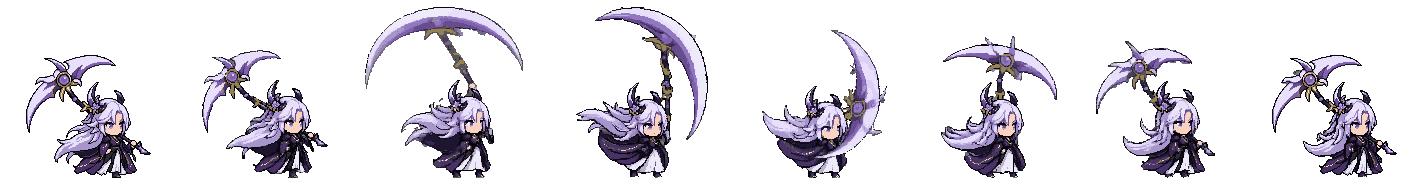
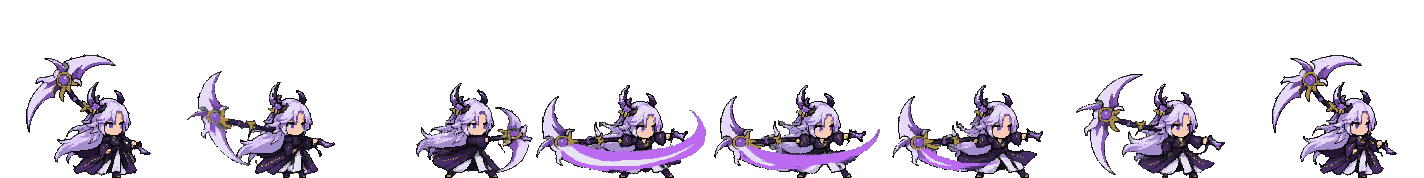
Liềm: chuỗi 3 nhát vung về trước, chém xa, 2 chiêu bắn liềm, nữ cao bằng nam (#220)
* Thay nhân vật nữ bằng cô liềm tím, thêm vũ khí Liềm

- hero.nu: cô liềm tím tóc oải hương dựng bằng SpriteCook theo nét pixel cũ,
  6 động tác x 8 khung (đứng, đi, chém vòng, quét ngang, bổ dọc, hất lên),
  thay hình nữ quầng đỏ cũ (tránh giống nhân vật game khác); xoá dải nguồn cũ.
- heroes.py: fit() gộp khung khác cỡ về chung đáy, bỏ trim_above không còn dùng.
- Vũ khí mới "liem" + món Tử Nguyệt Liềm + chiêu Tử Nguyệt Liềm (ném lưỡi liềm
  xoay, xuyên, làm chậm); biểu tượng túi, nút chiêu, đạn vẽ bằng code.

Claude-Session: https://claude.ai/code/session_01BVnJmrZJyUXuAed3rQziFZ

* Liềm: đòn chém vung về phía trước, chém xa hơn, thêm 2 chiêu bắn liềm, ảnh liềm trang bị

- hero.nu: làm lại 4 đòn đánh vung về trước (chém chéo kéo lên, quét ngang thu
  về, móc liềm sát đất, bổ xuống trước mặt); lunge cho người nhún tới khi đánh.
- Vũ khí Liềm: tầm 30 → 44, vệt chém tím fx.liem vươn theo tầm cả khi nhân vật
  bằng hình (weapons.*.slash).
- Chiêu thêm theo vũ khí (weapons.*.more): Song Nguyệt Trảm (3 lưỡi liềm hình
  quạt, mở tầng 4), Tử Nguyệt Luân Hồi (10 lưỡi tứ phía, mở tầng 18).
- Biểu tượng Tử Nguyệt Liềm trong túi đồ: hình SpriteCook theo liềm mẫu.

Claude-Session: https://claude.ai/code/session_01BVnJmrZJyUXuAed3rQziFZ

* Nhân vật nữ cao bằng nhân vật nam

Thu hình nữ 0.6 (heroes.shrink, giữ bảng màu gốc) để điểm ảnh và thân người
bằng nam; height 49 cùng tỉ lệ đơn vị/điểm ảnh với nam (30/64) nên hai nhân
[…]

diff --git a/src/render/draw-hero.js b/src/render/draw-hero.js
@@ -16,7 +16,7 @@ function anim(game, p, look, t) {
   p.heroSw = p.swingT;
   if (p.heroAtk0 != null) {
     const name = look.attacks[p.heroAtkN % look.attacks.length], i = Math.floor((t - p.heroAtk0) * look.fps[name]);
-    if (i >= 0 && i < look.anims[name].length) return [name, i];
+    if (i >= 0 && i < look.anims[name].length) return [name, i, i / look.anims[name].length];
     p.heroAtk0 = null;
   }
   const name = p.moving && !p.meditating && !p.riding ? 'walk' : 'idle';   // cưỡi thú: đứng yên trên lưng thú, không bước chân
@@ -28,7 +28,7 @@ export function drawHero(ctx, game, p, t, flash) {
   const look = heroLook(game), spr = look.sprite && game.data.art.sprites[look.sprite];
   const im = spr && spriteImage(spr);
   if (!im) return false;
-  const [name, i] = anim(game, p, look, t), list = look.anims[name] || look.anims.idle;
+  const [name, i, atk] = anim(game, p, look, t), list = look.anims[name] || look.anims.idle;
   const f = list[i % list.length];
   if (Math.abs(p.face.x) > 0.2) p.lookX = Math.sign(p.face.x);   // chỉ hai hướng: giữ hướng cũ khi đi thẳng lên xuống
   ctx.fillStyle = 'rgba(27,24,48,0.25)';   // bóng dưới chân
@@ -38,7 +38,8 @@ export function drawHero(ctx, game, p, t, flash) {
   const m = ctx.getTransform(), want = look.height / spr.h * m.d;
   const n = want >= 0.75 ? Math.max(1, Math.round(want)) : want;
   ctx.save();
-  ctx.setTransform(n * (p.lookX || 1), 0, 0, n, Math.round(m.a * p.x + m.e), Math.round(m.d * p.y + m.f));
+  const dx = atk != null && look.lunge ? (p.lookX || 1) * look.lunge * Math.sin(Math.PI * atk) : 0;   // đòn đánh: nhún người tới trước rồi lùi về
+  ctx.setTransform(n * (p.lookX || 1), 0, 0, n, Math.round(m.a * (p.x + dx) + m.e), Math.round(m.d * p.y + m.f));
   ctx.imageSmoothingEnabled = n < 0.75;
   drawHitFrame(ctx, spr, im, f, flash ? Math.min(1, p.flash / 0.12) : 0);
   ctx.restore();

diff --git a/src/game/skills.js b/src/game/skills.js
@@ -95,16 +95,18 @@ function segDist(pt, x1, y1, x2, y2) {
   return dist(pt, { x: x1 + dx * t, y: y1 + dy * t });
 }
 
+// Chiêu vũ khí: chiêu chính + chiêu thêm (weapons.*.more: [id, tổng tầng mở])
+export function weaponSkills(w) {
+  return [...(w.skill ? [[w.skill, 0]] : []), ...(w.more || [])];
+}
+
 // Chiêu đã mở: chiêu vũ khí + các chiêu hệ đủ tầng tu luyện (elements._unlock)
 export function unlockedSkills(game) {
   const { save, data } = game, out = [];
-  const w = data.weapons[weaponId(save, data)];
-  if (w.skill) out.push(w.skill);
+  const w = data.weapons[weaponId(save, data)], n = totalLayer(save, data.realms);
+  for (const [id, at] of weaponSkills(w)) if (n >= at) out.push(id);
   const el = save.element ? data.elements[save.element] : null;
-  if (el) {
-    const n = totalLayer(save, data.realms);
-    el.skills.forEach((id, i) => { if (n >= data.elements._unlock[i]) out.push(id); });
-  }
+  if (el) el.skills.forEach((id, i) => { if (n >= data.elements._unlock[i]) out.push(id); });
   return out;
 }
 
@@ -113,7 +115,7 @@ export function skillSlots(game) {
   const open = unlockedSkills(game), lo = game.save.loadout;
   if (lo) {
     // Đổi loại vũ khí: ô đang mang chiêu vũ khí cũ tự thay bằng chiêu của vũ khí mới
-    const wSkills = Object.values(game.data.weapons).map(w => w.skill).filter(Boolean);
+    const wSkills = Object.values(game.data.weapons).flatMap(w => weaponSkills(w).map(([id]) => id));
     const cur = game.data.weapons[weaponId(game.save, game.data)].skill;
     return lo.map(id => (open.includes(id) ? id : wSkills.includes(id) && cur && !lo.includes(cur) ? cur : null));
   }

diff --git a/src/ui/skills-panel.js b/src/ui/skills-panel.js
@@ -1,5 +1,5 @@
 // Bảng Chiêu: tab Chiêu (3 ô chiêu đang mang, chiêu đã mở và chưa mở) và tab Công pháp (3 cuốn đang mang, cấp, kinh nghiệm).
-import { unlockedSkills, skillSlots, setSlot } from '../game/skills.js';
+import { unlockedSkills, skillSlots, setSlot, weaponSkills } from '../game/skills.js';
 import { weaponId } from '../game/stats.js';
 import { setTechSlot, techNeed } from '../game/techniques.js';
 import { statText } from '../game/items.js';
@@ -74,7 +74,7 @@ export function createSkillsPanel(game) {
     const list = $('skills-list'); list.innerHTML = '';
     const all = [];
     const w = data.weapons[weaponId(game.save, data)];
-    if (w.skill) all.push({ id: w.skill, from: w.name });
+    for (const [id, at] of weaponSkills(w)) all.push({ id, from: w.name, at });
     const e = game.save.element ? data.elements[game.save.element] : null;
     if (e) e.skills.forEach((id, i) => all.push({ id, from: `Hệ ${e.name}`, at: data.elements._unlock[i] }));
     for (const { id, from, at } of all) {

diff --git a/src/game/skill-fx.js b/src/game/skill-fx.js
@@ -14,8 +14,8 @@ export function burstFx(game, kind, x, y, r, ang = 0) {
   } else if (kind === 'bolt') {
     addFx(game, { type: 'sprite', id: 'fx.bolt', x, y, s: Math.max(0.6, r / 30), life: 0.5 });
     game.flashT = Math.max(game.flashT || 0, 0.06);
-  } else if (kind === 'slash' || kind === 'liem') {   // liềm trúng: vệt chém như kiếm khí
-    addFx(game, { type: 'sprite', id: 'fx.slash', x, y: y - 3, s: Math.max(0.5, r / 19), rot: ang, life: 0.25 });
+  } else if (kind === 'slash' || kind === 'liem') {   // liềm trúng: vệt chém tím
+    addFx(game, { type: 'sprite', id: kind === 'liem' ? 'fx.liem' : 'fx.slash', x, y: y - 3, s: Math.max(0.5, r / 19), rot: ang, life: 0.25 });
   } else if (kind === 'vine') {
     addFx(game, { type: 'sprite', id: 'fx.vine', x, y: y + 2, s: Math.max(0.4, r / 22), life: 0.75 });
   } else if (kind === 'rock') {   // vùng rộng: gai đá trồi thành vòng, không che người đứng giữa

diff --git a/src/game/player.js b/src/game/player.js
@@ -83,8 +83,8 @@ function swing(game) {
   }
   const ang = Math.atan2(p.face.y, p.face.x), half = w.arc / 2 * Math.PI / 180;
   const H = game.data.heroes, look = H.list[game.save.look] || H.list[H.default];
-  // Nhân vật bằng hình đã có vệt chém vẽ sẵn trong khung đánh (quét từ dưới lên qua đầu): không chồng thêm vệt khác
-  if (!look.sprite) addFx(game, { type: 'sprite', id: 'fx.slash', x: p.x, y: p.y - 3, s: w.range / 19, rot: ang, life: 0.24 });
+  // Nhân vật bằng hình đã có vệt chém vẽ sẵn trong khung đánh: không chồng thêm vệt, trừ vũ khí có vệt riêng (w.slash, vd. liềm vươn xa)
+  if (!look.sprite || w.slash) addFx(game, { type: 'sprite', id: w.slash || 'fx.slash', x: p.x, y: p.y - 3, s: w.range / 19, rot: ang, life: 0.24 });
   for (const m of game.mobs) {
     if (m.dead) continue;
     const d = dist(p, m);

diff --git a/tools/art/build.py b/tools/art/build.py
@@ -8,13 +8,13 @@ import numpy as np
 sys.path.insert(0, str(Path(__file__).parent))
 from px import Canvas, hx, save, write_manifest, blob_mask, BAYER4, clean  # noqa: E402
 from chars import CHARS, draw  # noqa: E402
-from fx import slash_frames, spark_frames, puff_frames  # noqa: E402
+from fx import slash_frames, spark_frames, puff_frames, MOON  # noqa: E402
 from fx_skill import fire_frames, ice_frames, bolt_frames  # noqa: E402
 from fx_nature import vine_frames, rock_frames, wind_frames  # noqa: E402
 from fx_aura import heal_frames, shield_frames, buff_frames  # noqa: E402
 from fx_proj import proj_sprites  # noqa: E402
 from icons import icon_sprites  # noqa: E402
-from heroes import sheet, foot, fit  # noqa: E402
+from heroes import sheet, foot, fit, shrink, picture  # noqa: E402
 import world as W  # noqa: E402
 import dungeon as DG  # noqa: E402
 from ground import ground_frames  # noqa: E402
@@ -34,8 +34,8 @@ for sid, spec in CHARS.items():
 _SMOKE = [(0x7f, 0x80, 0x80), (0x7e, 0x80, 0x80)]   # khói xám SpriteCook lẫn vào quầng
 _f = sheet('nam-dung') + sheet('nam-di', drop=_SMOKE) + sheet('nam-chem') + sheet('nam-bo', drop=_SMOKE) + sheet('nam-hat', drop=_SMOKE) + sheet('nam-ngang')
 save('hero.nam', _f, foot(_f[0]), 'nam kiếm tu (SpriteCook): đứng, đi, chém vòng, bổ dọc, hất lên, quét ngang; mỗi động tác 8 khung')
-_f = fit(sheet('liem-dung') + sheet('liem-di') + sheet('liem-chem') + sheet('liem-ngang') + sheet('liem-bo') + sheet('liem-hat'))
-save('hero.nu', _f, foot(_f[0]), 'nữ liềm tím tóc oải hương (SpriteCook): đứng, đi, chém vòng, quét ngang, bổ dọc, hất lên; mỗi động tác 8 khung')
+_f = shrink(fit(sheet('liem-dung') + sheet('liem-di') + sheet('liem-cheo') + sheet('liem-ngang') + sheet('liem-moc')), 0.6)   # thân ~46 px như nam
+save('hero.nu', _f, foot(_f[0]), 'nữ liềm tím tóc oải hương (SpriteCook): đứng, đi, chém chéo kéo lên, quét ngang thu về, móc liềm sát đất; mỗi động tác 8 khung, mọi đòn vung về phía trước')
 
 # ---------------------------------------------------------------- nền đảo 16×16 (tools/art/world.py, vẽ ở src/world/draw-ground.js)
 save('tile.grass', [W.grass(s) for s in range(4)], (0, 0), 'cỏ, 4 biến thể ghép liền')
@@ -157,6 +157,7 @@ save('item.kiem', [sword()], (2, 10), 'kiếm bay cạnh nhân vật, chĩa lên
 
 # ---------------------------------------------------------------- hiệu ứng nhỏ (pixel + quầng sáng, docs/02)
 save('fx.slash', slash_frames(), (18, 24), 'vệt chém đánh thường, 7 khung; tâm cung tại neo')
+save('fx.liem', slash_frames(MOON), (18, 24), 'vệt liềm tím vươn xa trước mặt (vũ khí Liềm, chiêu liềm trúng), 7 khung; tâm cung tại neo')
 save('fx.spark', spark_frames(), (5, 5), 'tia lửa khi trúng, 4 khung')
 save('fx.puff', puff_frames(), (8, 8), 'khói tan khi quái chết, 5 khung')
 save('fx.fire', fire_frames(), (12, 31), 'ngọn lửa lặp 8 khung (chiêu hệ hỏa); neo ở chân lửa')
@@ -180,6 +181,8 @@ for _id, _c in icon_sprites().items():
 _items, _gear = (json.loads((Path(__file__).resolve().parents[2] / 'data' / f).read_text(encoding='utf-8')) for f in ('items.json', 'gear.json'))
 for _id, _b in _items['bases'].items():
     save('gear.' + _id, [gear_icon(_b, _gear['sets'])], (8, 8), _b['name'])
+# món có hình vẽ sẵn (SpriteCook theo mẫu chủ dự án) thay biểu tượng vẽ code; túi đồ hiện mọi biểu tượng ở ô 32 px
+save('gear.tu-nguyet-liem', [picture('liem-vu-khi', 64, hx('#1b1830'))], (32, 32), 'Tử Nguyệt Liềm (SpriteCook theo liềm mẫu)')
 
 # ---------------------------------------------------------------- chữ số pixel 3×5 (+viền) cho số sát thương
 DIG = ['111101101101111', '010110010010111', '111001111100111', '111001111001111', '101101111001001',

diff --git a/tools/art/heroes.py b/tools/art/heroes.py
@@ -140,3 +140,39 @@ def fit(frames):
         cv.a[:] = big[k, ys[0]:y1, xs[0]:xs[-1] + 1]
         out.append(cv)
     return out
+
+
+def picture(name, size, ink):
+    """Hình món đồ vẽ sẵn (tools/art/nguon/<name>.png, nền trong suốt) → Canvas size×size: cắt sát, đặt giữa ô vuông,
+    thu nhỏ rồi đưa mỗi điểm về màu gần nhất của bảng màu gốc, alpha chỉ 0/255, viền mực ink 1 px như hình vẽ code."""
+    im = Image.open(SRC / f'{name}.png').convert('RGBA')
+    im = im.crop(im.getbbox())
+    s = max(im.size)
+    sq = Image.new('RGBA', (s, s))
+    sq.paste(im, ((s - im.width) // 2, (s - im.height) // 2))
+    src = np.array(sq)
+    pal = np.unique(src[src[..., 3] > 127][:, :3], axis=0).astype(int)
+    small = np.array(sq.resize((size - 2, size - 2), Image.BOX)).astype(int)
+    cv = Canvas(size, size)
+    solid = small[..., 3] > 110
+    for y, x in zip(*np.where(solid)):
+        cv.a[y + 1, x + 1, :3] = pal[np.abs(pal - small[y, x, :3]).sum(axis=1).argmin()]   # Pillow đã khử nhân alpha khi thu
+        cv.a[y + 1, x + 1, 3] = 255
+    return cv.outline(ink)
+
+
+def shrink(frames, k):
+    """Thu mọi khung theo hệ số k (<1), đưa mỗi điểm về màu gần nhất trong bảng màu gốc, alpha 0/255. Dùng để điểm ảnh
+    và thân người to bằng nhân vật nam (thân ~46 px): hai nhân vật làm tròn điểm màn hình giống nhau, cao thấp cân nhau."""
+    pal = np.unique(np.concatenate([cv.a[cv.a[..., 3] > 0][:, :3] for cv in frames]), axis=0).astype(int)
+    w, h = round(frames[0].w * k), round(frames[0].h * k)
+    out = []
+    for cv in frames:
+        im = Image.fromarray(cv.a, 'RGBA').resize((w, h), Image.BOX)
+        a = np.array(im).astype(int)
+        sm = Canvas(w, h)
+        for y, x in zip(*np.where(a[..., 3] > 110)):
+            sm.a[y, x, :3] = pal[np.abs(pal - a[y, x, :3]).sum(axis=1).argmin()]   # Pillow đã khử nhân alpha khi thu
+            sm.a[y, x, 3] = 255
+        out.append(sm)
+    return out

diff --git a/tools/art/fx.py b/tools/art/fx.py
@@ -48,10 +48,13 @@ def spark0():
 KEYS = [(-100, -55, 4, 0.0), (-100, 25, 7, 0.0), (-85, 90, 9, 0.0), (-20, 100, 7, 0.3), (30, 105, 5, 0.55), (70, 110, 3, 0.8)]
 
 
-def slash_frames():
+MOON = [hx('#6a4a9a'), hx('#a88ad8'), hx('#dccbf6'), hx('#ffffff')]  # vệt liềm tím (vũ khí Liềm)
+
+
+def slash_frames(tones=TONES):
     out = [spark0()]
     for a0, a1, wmax, dis in KEYS:
-        t = TONES if dis < 0.5 else [TONES[0], TONES[0], TONES[1], TONES[2]]
+        t = tones if dis < 0.5 else [tones[0], tones[0], tones[1], tones[2]]
         out.append(slash(a0, a1, wmax, t, dis))
     return out
 

diff --git a/docs/02-CHUAN-PIXEL.md b/docs/02-CHUAN-PIXEL.md
@@ -11,7 +11,7 @@ Bản chơi tạm hiện vẽ hình khối đơn giản. Khi sang bước 3, hì
 - Quái đã có hình (27/10/2026): mỗi quái trong `data/mobs.json` có `look` (dáng: slime, imp, mage, wolf, wing, plant, beetle, golem, snake, lord) và `crown` (vua quái) thì `tools/art/mobs.py` vẽ riêng một tấm `mob.<id>` theo màu và cỡ của nó, 2 khung, nhìn phải. Game vẽ ở `src/render/draw-mob-sprite.js`. Thêm dáng ở `tools/art/mobs_extra.py` (27/10/2026): person (ma vệ), shade (tâm ma, hư ảnh), blade (kiếm hồn), snowman (người tuyết), pumpkin (bí ngô). Chỉ đấu sĩ luận võ còn vẽ hình khối, vì mỗi đối thủ có màu áo, tóc, đai riêng.
 - Linh thú và thú cưỡi (27/10/2026): `tools/art/pets.py` vẽ `pet.<id>` theo dáng của quái cùng tên và màu linh thú (game vẽ cỡ 0,7), `mount.<id>` là thân sói lớn có thêm đặc điểm theo `look` trong `data/pets.json` mounts (deer gạc hươu, wolf bờm, qilin sừng và đuôi lửa, lynx chỏm lông tai), có yên. Vẽ ở `src/render/draw-pet.js`, người cưỡi ngồi cao 11 đơn vị.
 - Nền đảo đã dùng trong game (27/10/2026): `tools/art/world.py` vẽ cỏ, đường đất, nền đá lát, mép cỏ phủ lên đường và đá, vách đảo hai hàng, nhà mái ngói ghép từng ô (mái nóc, mái giữa, mép mái, tường, cửa, cửa sổ), cây (quả đỏ, tán tròn, hoa đào), đá, hoa. Mỗi ô 16×16 điểm ảnh bằng một ô bản đồ. Game vẽ ở `src/world/draw-ground.js`: lớp nền vẽ một lần vào tấm đệm của bản đồ, nhà cây đá hoa vẽ từng ô; ô chưa có hình vẫn vẽ hình khối. Vùng đất trống `decal.dirt` và bụi cây `prop.bush` (bản nháp cũ) rải cố định theo ô trên bãi cỏ rộng, vẽ luôn vào tấm đệm (`scatter`).
-- Nhân vật chính dùng tạm hình có sẵn: dải khung đặt ở `tools/art/nguon/`. Nam và nữ là chuyển động SpriteCook (nam: đứng, đi, chém vòng, bổ dọc, hất lên, quét ngang; nữ là cô liềm tím tóc oải hương, thay hình nữ cũ quầng đỏ vì giống nhân vật game khác: đứng, đi, chém vòng, quét ngang, bổ dọc, hất lên; mỗi động tác 8 khung, nền trong suốt, vệt chém vẽ sẵn cùng màu vũ khí); `tools/art/heroes.py` cắt khung, dọn rác (khói xám, vệt lấm tấm) và gộp khung khác cỡ về chung đáy (`fit`), `build.py` xuất `hero.nam`, `hero.nu`. Liềm cũng là loại vũ khí `liem` (món Tử Nguyệt Liềm, chiêu ném lưỡi liềm xoay `proj.liem`), biểu tượng và đạn vẽ bằng code theo màu liềm mẫu. Game vẽ bằng `src/render/draw-hero.js`: hình gốc nhìn phải, quay trái lật gương; khung từng động tác ở `data/heroes.json`, đánh liên tiếp ra chuỗi 4 đòn khác nhau (`attacks`), nghỉ quá `combo_reset` giây thì về đòn đầu.
+- Nhân vật chính dùng tạm hình có sẵn: dải khung đặt ở `tools/art/nguon/`. Nam và nữ là chuyển động SpriteCook (nam: đứng, đi, chém vòng, bổ dọc, hất lên, quét ngang; nữ là cô liềm tím tóc oải hương, thay hình nữ cũ quầng đỏ vì giống nhân vật game khác: đứng, đi, chém chéo kéo lên, quét ngang thu về, móc liềm sát đất (chuỗi 3 nhát, mọi đòn vung về phía trước; làm bằng pixel-engine-v1.5, tả rõ "chỉ ở phía trước", bản cũ hay thu liềm ngắn lại; `lunge` trong data/heroes.json cho người nhún tới khi đánh); mỗi động tác 8 khung, nền trong suốt, vệt chém vẽ sẵn cùng màu vũ khí); `tools/art/heroes.py` cắt khung, dọn rác (khói xám, vệt lấm tấm) và gộp khung khác cỡ về chung đáy (`fit`), `build.py` xuất `hero.nam`, `hero.nu`. Hình nữ được thu (`heroes.shrink`, 0.6) để điểm ảnh và thân người (~46 px) bằng nam, `height` cùng tỉ lệ đơn vị/điểm ảnh với nam (30/64) nên hai nhân vật cao bằng nhau trên mọi màn. Liềm cũng là loại vũ khí `liem`: vệt chém tím `fx.liem` vươn theo tầm đánh (`weapons.*.slash`), chiêu vũ khí Tử Nguyệt Liềm và chiêu thêm (`weapons.*.more`) Song Nguyệt Trảm, Tử Nguyệt Luân Hồi đều bắn lưỡi liềm xoay `proj.liem` vẽ bằng code; biểu tượng túi đồ của món Tử Nguyệt Liềm là hình SpriteCook theo liềm mẫu (`nguon/liem-vu-khi.png`, `heroes.picture` thu về 64 px giữ bảng màu gốc). Game vẽ bằng `src/render/draw-hero.js`: hình gốc nhìn phải, quay trái lật gương; khung từng động tác ở `data/heroes.json`, đánh liên tiếp ra chuỗi 4 đòn khác nhau (`attacks`), nghỉ quá `combo_reset` giây thì về đòn đầu.
 - Phong cách nhân vật SpriteCook đã lưu thành preset riêng **"Pixel 2D Tu Tiên · nhân vật chibi"** (id `1034d78c-5cb7-4fd6-bf29-9ed7fa730574`): mẫu câu lệnh chibi, 64×64, nền trong suốt, model gemini-nano-banana-2.1, 3 ảnh mẫu phong cách (ảnh chibi chủ dự án gửi `fcacb53d-…`, nam kiếm tu `3678f0bc-…`, nữ thương tu `f2d40c2e-…`). Nhân vật hoặc quái mới: lấy preset bằng `get_preset_settings`, thay `<mô tả nhân vật>`; động tác: `animate_game_art` từ hình gốc, 8 khung, ~20 credit mỗi động tác.
 - Hiệu ứng chiêu bằng hình pixel: `tools/art/fx_skill.py` vẽ `fx.fire` (lửa lặp), `fx.ice` (gai băng trồi, vỡ), `fx.bolt` (sét); `fx.slash` là vệt chém đánh thường khi chưa có hình nhân vật (nhân vật SpriteCook đã có vệt chém vẽ sẵn trong khung đánh nên không chồng thêm). Chiêu chọn hiệu ứng bằng `fx` trong `data/skills.json`; game gọi ở `src/game/skill-fx.js`, vẽ ở `src/render/draw-sprite-fx.js`. Dùng chiêu tấn công cũng làm nhân vật ra động tác đánh. Thêm (27/10/2026): `tools/art/fx_nature.py` vẽ `fx.vine` (dây leo hệ Mộc), `fx.rock` (gai đá hệ Thổ, vùng rộng thì trồi thành vòng quanh tâm), `fx.wind` (gió xoáy); `tools/art/fx_aura.py` vẽ chiêu tự thân `fx.heal`, `fx.shield` (nước), `fx.shield-earth` (đất, vàng), `fx.buff`, bám theo người qua `selfFx`. Độ rực vừa phải theo chủ dự án: không thêm rung hay chớp màn hình. Đạn chiêu có hình riêng theo `fx` (`tools/art/fx_proj.py`: `proj.fire` cầu lửa, `proj.ice` mũi băng, `proj.slash` kiếm khí lưỡi liềm, `proj.vine` kim gỗ, `proj.rock` đá xoay), vẽ ở `src/render/draw-bullets.js` xoay theo hướng bay, quầng màu chiêu bên dưới; đạn quái và linh thú vẫn là chấm màu. Chiêu lớn vẽ mượt kiểu anime bằng `ult` trong `data/skills.json`, vẽ ở `src/render/draw-ult.js`: `dragon` (đạn kéo thân rồng uốn lượn, có sừng râu: Hỏa Long, Thủy Long Quyển), `phoenix` (chim lửa dang cánh cuối đường lướt: Phượng Hoàng Dực), `spear` (mũi thương sáng, sóng xung kích: Long Thương Đột). Chỉ quầng ngoài cộng sáng, thân giữ màu chiêu để nổi trên nền cỏ. Đòn từ trời (lửa rơi của boss, thiên kiếp): cầu lửa rơi dùng hình `proj.fire`, lúc giáng nổ `fx.fire` hoặc `fx.bolt` tại chỗ (`src/game/strikes.js`).
 - Biểu tượng chiêu (27/10/2026): `tools/art/icons.py` vẽ `icon.<loại>` 16×16 (fire, ice, bolt, slash, vine, rock, wind, heal, shield, shield-earth, buff, orb). Nút chiêu hiện biểu tượng theo `fx` của chiêu, không có `fx` thì theo kiểu chiêu (`src/ui/hud.js`).
